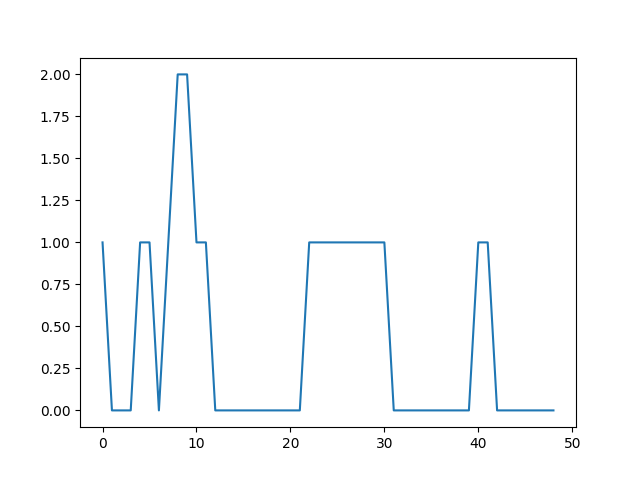
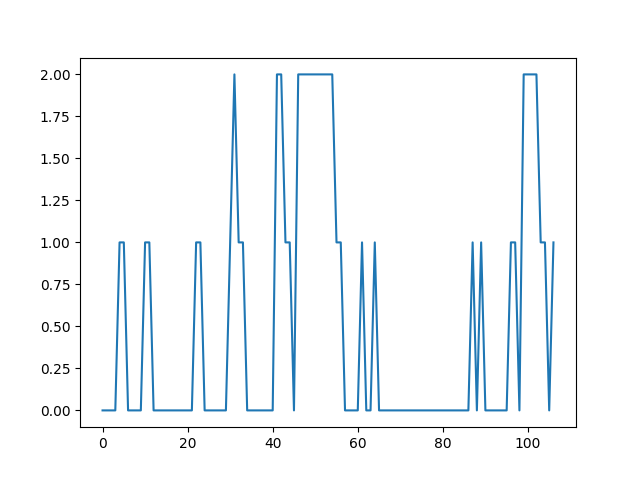
push

diff --git a/templates/index.html b/templates/index.html
@@ -4,18 +4,32 @@
         <title>Sleep Tracker</title>
     </header>
     <body>
+        <h3>Sleep Logs</h3>
         <form method="Post">
             <ul>
             {% for item in sleep_data %}
-                <li><button type="submit" value={{item.sleep_no}} name={{item.sleep_no}}>{{item.sleep_no}}: slept for {{item.sleep_duration}}</button></li>
+                <li><button type="submit" value={{item}} name='submit_button'>{{item.replace("_", " ")}}</button></li>
             {% endfor %}
             </ul>
         </form>
         
-        
+        <img id='image1' src={{ url_for('get_image', filename=sleep_image_path) }}>
+        <img id='image2' src={{ url_for('get_image', filename=pos_image_path) }}>
+        <p>Sleep duration: {{sleep_duration}}</p>
+        <p>Deep sleep percent: {{deep_sleep_percent}}</p>
+        <p>Restless sleep percent: {{restless_sleep_percent}}</p>
+        <p>Awake percent: {{awake_percent}}</p>
 
-        <form method="POST">
-            <button type="submit" value="Hello" name="hello_button">whatup my dude</button>
-        </form>
+        <script>
+            // Function to update image source
+            function updateImages() {
+                document.getElementById('image1').src = '/images/sleep_image.png?' + new Date().getTime();
+                document.getElementById('image2').src = '/images/pos_image.png?' + new Date().getTime();
+            }
+    
+            // Call updateImages() when the page is loaded
+            window.onload = updateImages;
+        </script>
+
     </body>
 </html>

diff --git a/application.py b/application.py
@@ -1,14 +1,118 @@
 from flask import *
+from collections import Counter
+import json
+import matplotlib.pyplot as plt
+
+with open('sleeps.json', 'r') as f:
+    sleep_data = json.load(f)
 
 app = Flask(__name__)
+
+
+class Global:
+    months = ['January', 'February', 'March', 'April', 'May', 'June', 'July', 'August', 'September', 'October', 'November', 'December']
+    entry_mapper = {}
+    SELECTED_ENTRY = ""
+
+def get_entries():
+    entries = list(Global.entry_mapper.keys())
+    for _ in range(len(entries)):
+        entry = entries[_].replace(" ", "_")
+        entries[_] = entry
+    return entries
+
+
+def page_loader():
+    if Global.SELECTED_ENTRY != "":
+        data = sleep_data[Global.entry_mapper[Global.SELECTED_ENTRY]]
+        x = data['x']
+        y = data['y']
+        pos = data['pos']
+        m = min(len(x), len(y), len(pos))
+        x = data['x'][:m]
+        y = data['y'][:m]
+        pos = data['pos'][:m]
+
+        y_counts = Counter(y)
+        pos_counts = Counter(pos)
+
+        sleep_duration = len(x)
+        deep_sleep_percent = y_counts[0] / sleep_duration
+        restless_sleep_percent = y_counts[1] / sleep_duration
+        awake_percent = y_counts[2] / sleep_duration
+
+        right = pos_counts[0] / sleep_duration
+        left = pos_counts[2] / sleep_duration
+        middle = pos_counts[1] / sleep_duration
+
+        plt.plot(x, y)
+        plt.title("Sleep Quality")
+        plt.xlabel("Time (seconds)")
+        plt.ylabel("Restlessness Levels")
+        plt.savefig("images/sleep_image.png")
+        plt.clf()
+
+        plt.plot(x, pos)
+        plt.title("Sleeping Position")
+        plt.xlabel("Time (seconds)")
+        plt.ylabel("Left/Middle/Right")
+        plt.savefig("images/pos_image.png")
+        plt.clf()
+
+        # get sleep_duration
+        hours = sleep_duration // (60 * 60)
+        sleep_duration -= hours * (60 * 60)
+        minutes = sleep_duration // 60
+        sleep_duration -= minutes * 60
+        seconds = sleep_duration
+        sleep_duration = str(hours) + " hours, " + str(minutes) + " minutes, " + str(seconds) + " seconds"
+
+        return render_template(
+            "index.html",
+            sleep_data=get_entries(),
+            sleep_image_path="sleep_image.png",
+            pos_image_path="pos_image.png",
+            sleep_duration=str(sleep_duration),
+            deep_sleep_percent=str(round(deep_sleep_percent*100, 2)) + "%",
+            restless_sleep_percent=str(round(restless_sleep_percent*100, 2)) + "%",
+            awake_percent=str(round(awake_percent*100, 2)) + "%"
+        )
+
+    return render_template(
+        "index.html",
+        sleep_data=get_entries(),
+        sleep_image_path="",
+        pos_image_path="",
+        sleep_duration="",
+        deep_sleep_percent="",
+        restless_sleep_percent="",
+        awake_percent=""
+    )
 
 @app.route("/", methods=["GET", "POST"])
 def home():
     if request.method != "POST":
-        return render_template("index.html")
-    if request.form.get("hello_button") == "Hello":
-        print("hello world")
-    return render_template("index.html")
+        return page_loader()
+    
+    clicked = request.form.get('submit_button').replace("_", " ")
+    for entry in Global.entry_mapper:
+        if clicked == entry:
+            print(entry)
+            Global.SELECTED_ENTRY = entry
+
+    return page_loader()
+
+@app.route('/images/<path:filename>')
+def get_image(filename):
+    return send_from_directory('images', filename)
 
 if __name__ == "__main__":
-    app.run(host="0.0.0.0")
+    for entry in sleep_data:
+        year = entry[0:4]
+        month = entry[5:7]
+        day = entry[8:10]
+        time = entry[11:16]
+        output = time + " " + Global.months[int(month)] + " " + day + ", " + year
+        Global.entry_mapper[output] = entry
+
+    app.run(debug=False, port=5000, host="192.168.1.20")

diff --git a/main.py b/main.py
@@ -1,5 +1,6 @@
 import matplotlib.pyplot as plt
 import json
+import datetime
 
 from utils import *
 
@@ -20,18 +21,14 @@ def potential_disturbance(sleep):
 
     return True
 
-# with open('sleeps.json', 'r') as f:
-#     sleep_data = json.load(f)
-
-sleep = {
-    'time': 10,
-    'efficiency': 100
-}
+with open('sleeps.json', 'r') as f:
+    sleep_data = json.load(f)
 
 try:
     while True:
         current_state = get_current_state()
         x, y = [], []   # y: 0=deep sleep, 1=restless sleep, 2=awake
+        pos = []        # 0=right, 1=middle, 2=left
         t = 0
 
         if not pillow_in_use(current_state):
@@ -44,16 +41,31 @@ try:
             x.append(t)
             t += 1
 
-            if (next_state[0] < 0.2 and next_state[1] < 0.2):   # awake
+            if (next_state[0] < 0.05) and (next_state[1] < 0.05):   # awake
                 y.append(2)
             elif left + right < 0.2:                            # deep sleep
                 y.append(0)
             else:                                               # restless sleep
                 y.append(1)
 
+            if (next_state[0] > 0.5) and (next_state[1] < 0.5):
+                pos.append(0)
+            elif (next_state[0] < 0.5) and (next_state[1] > 0.5):
+                pos.append(2)
+            else:
+                pos.append(1)
+
             current_state = next_state
         
         x, y = x[:-MAX_AWAKE_TIME], y[:-MAX_AWAKE_TIME]
+
+        current_sleep_data = {
+            'x': x,
+            'y': y,
+            'pos': pos,
+        }
+
+        sleep_data[str(datetime.datetime.now())] = current_sleep_data
 
         plt.plot(x, y)
         plt.savefig("sleep.png")
